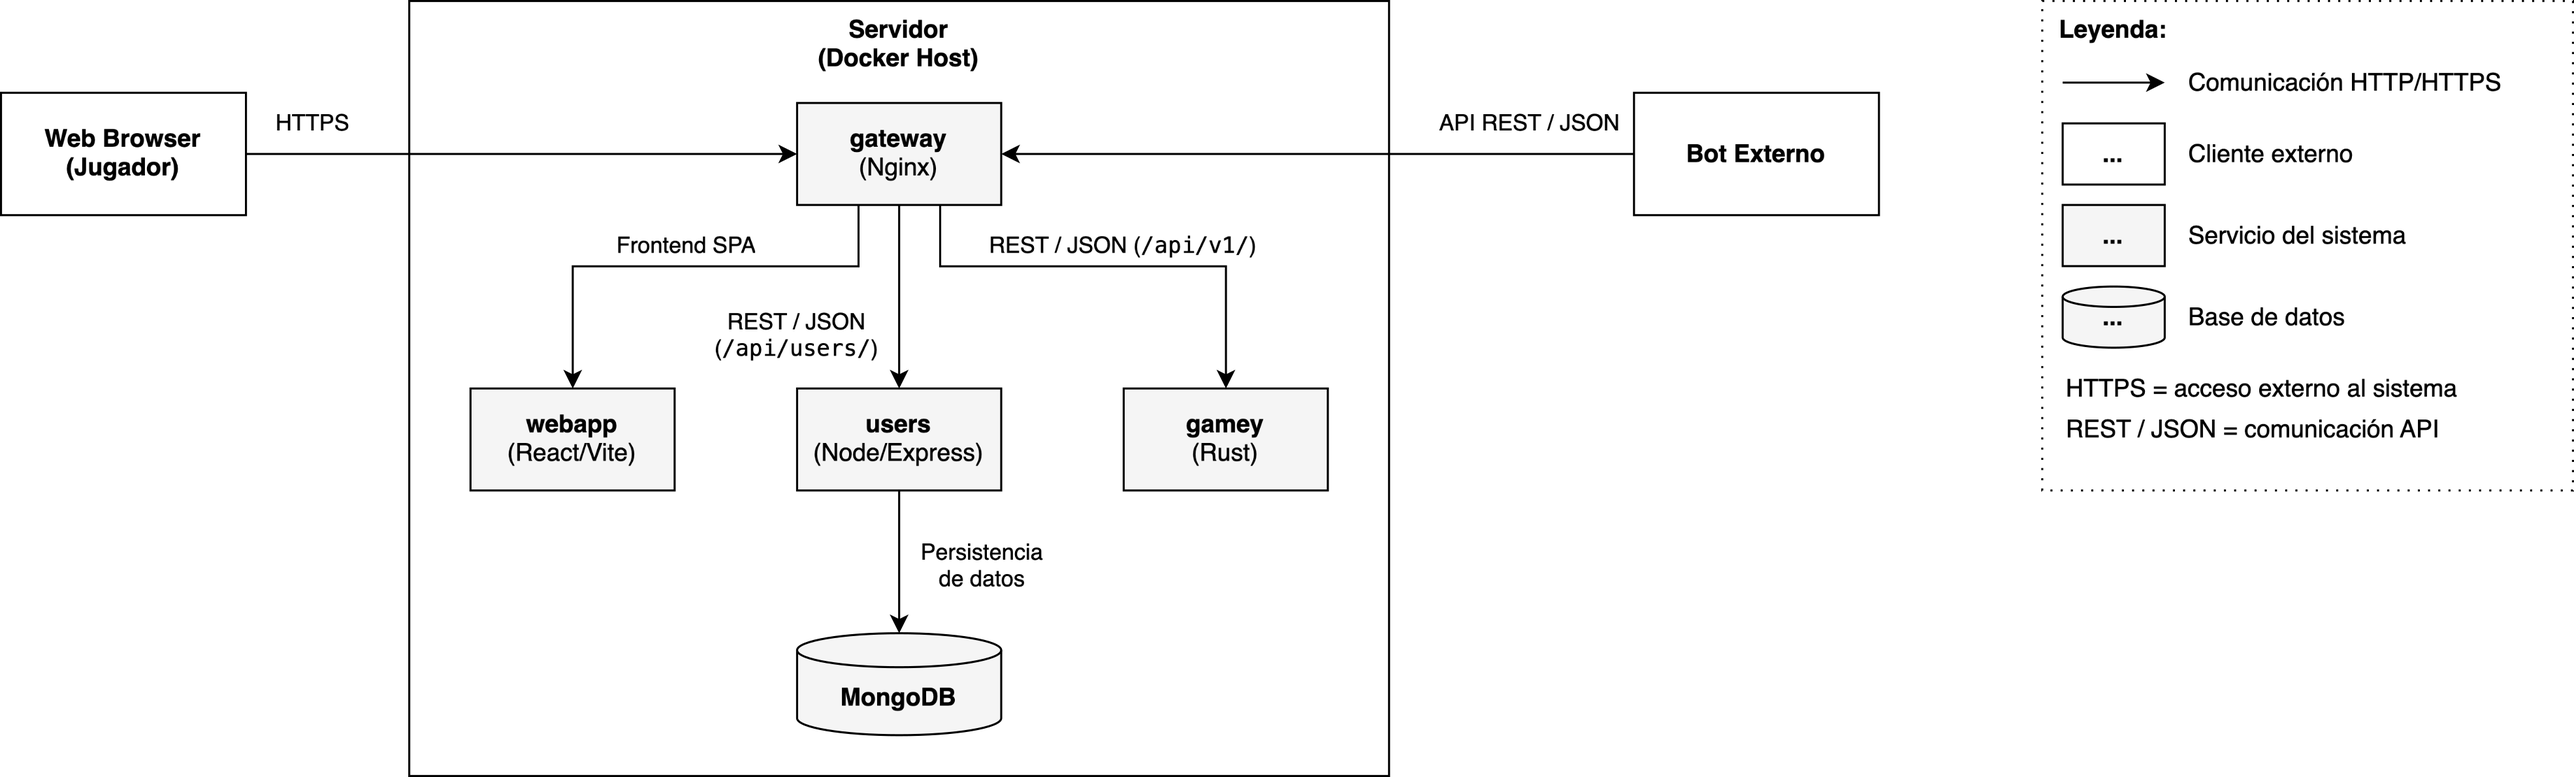
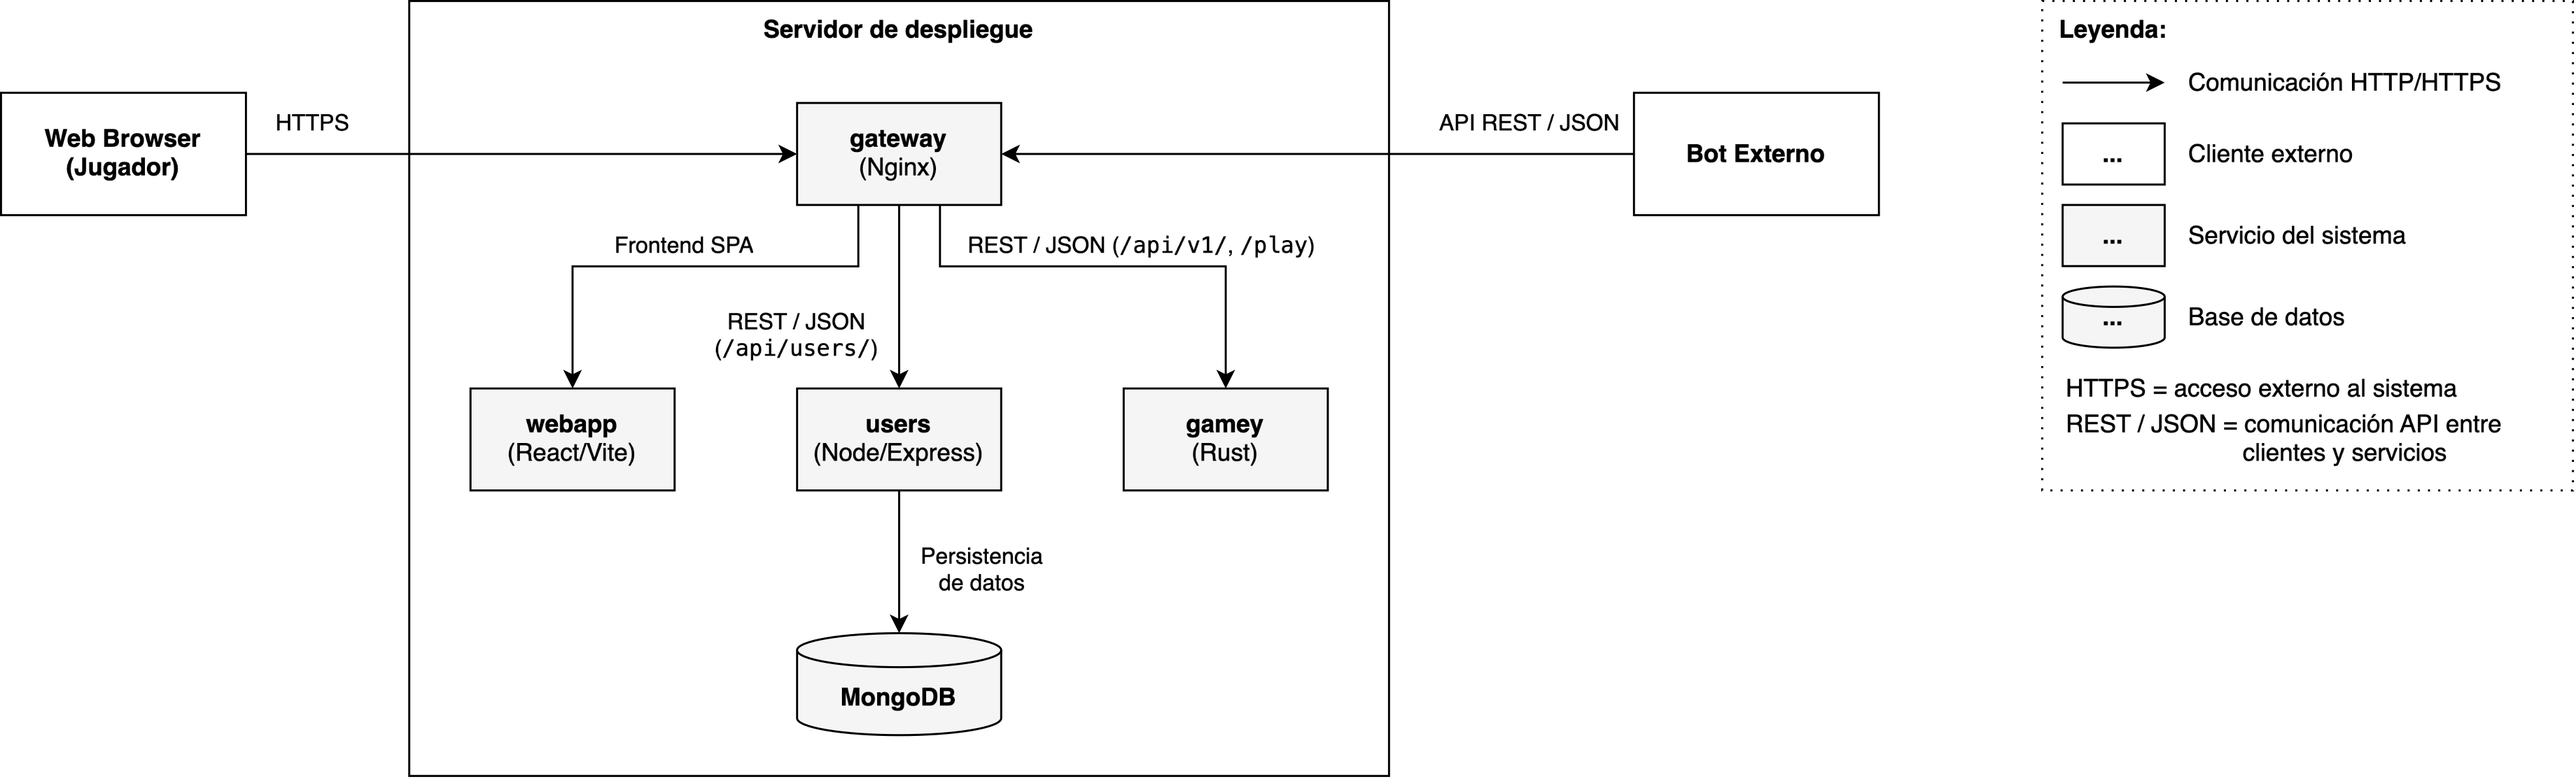
Updates

diff --git a/index.html b/index.html
@@ -588,21 +588,34 @@ For documentation of your own system you use better the <em>plain</em> version.<
 <p>La app dispone de una interfaz web para jugar al juego Y.</p>
 </li>
 <li>
-<p>Se ofrecen dos modos de juego:</p>
+<p>Se ofrecen dos modos base de juego:</p>
 <div class="ulist">
 <ul>
 <li>
-<p>Partida jugador contra jugador.</p>
+<p>Partida jugador contra jugador - HvH.</p>
 </li>
 <li>
-<p>Partida jugador contra bot.</p>
+<p>Partida jugador contra bot - HvB.</p>
 <div class="ulist">
 <ul>
 <li>
-<p>El bot tiene diferentes estrategias implementadas, y el usuario puede elegir cuál de ellas usar (nivel de dificultad).</p>
+<p>En el modo contra bot, el usuario puede seleccionar el nivel de dificultad, asociado a varias estrategias.</p>
 </li>
 </ul>
 </div>
+</li>
+</ul>
+</div>
+</li>
+<li>
+<p>La aplicación incorpora un flujo de selección de variante antes de configurar la partida.</p>
+<div class="ulist">
+<ul>
+<li>
+<p>La variante clásica constituye la base principal del sistema</p>
+</li>
+<li>
+<p>Existen otras variantes adicionales como Tabu Y y Holey Y ya funcionales, y otras todavía no implementadas.</p>
 </li>
 </ul>
 </div>
@@ -611,7 +624,17 @@ For documentation of your own system you use better the <em>plain</em> version.<
 <p>El tablero tiene tamaño variable, configurable por el usuario dentro de unos límites establecidos.</p>
 </li>
 <li>
-<p>El usuario puede elegir quién empieza la partida, según el modo de juego.</p>
+<p>El usuario puede elegir quién empieza la partida:</p>
+<div class="ulist">
+<ul>
+<li>
+<p>En HvB: El usuario, el bot, o aleatorio.</p>
+</li>
+<li>
+<p>En HvH: el Jugador 1, el Jugador 2, o aleatorio.</p>
+</li>
+</ul>
+</div>
 </li>
 <li>
 <p>El usuario podrá registrarse en la aplicación, o inciar sesión si ya tiene cuenta asociada.</p>
@@ -620,24 +643,41 @@ For documentation of your own system you use better the <em>plain</em> version.<
 <li>
 <p>Cada usuario podrá ver un historial de partidas y sus estadísticas (ganadas/perdidas, número de partidas, etc.).</p>
 </li>
-</ul>
-</div>
-</li>
 <li>
-<p>Se proporcionará un API externo (documentado) para que los bots puedan usar el sistema.</p>
+<p>En caso de continuar como usuario invitado (sin iniciar sesión), no se guardará el historial ni las estadísticas de las partidas.</p>
 <div class="ulist">
 <ul>
 <li>
-<p>El API permitirá consultar/gestionar info de usuarios y partidas.</p>
+<p>Al final de cada partida, el usuario invitado podrá optar por registrarse/iniciar sesión para guardar la partida y sus estadísticas, o continuar sin guardar.</p>
 </li>
-<li>
-<p>El API tendrá un método <code>play</code> que recibe al menos <code>position</code> (en notación YEN) y devuelve el siguiente movimiento (también en YEN).</p>
+</ul>
+</div>
 </li>
 </ul>
 </div>
 </li>
 <li>
-<p>El “motor” del juego estará en un módulo/servicio aparte (implementado en Rust), y la web lo llamará por HTTP mediante JSON (usando YEN).</p>
+<p>Se proporciona un API externo (documentado) para que los bots puedan usar el sistema.</p>
+<div class="ulist">
+<ul>
+<li>
+<p>El API permite consultar/gestionar info de usuarios y partidas.</p>
+</li>
+<li>
+<p>El API incluye un método <code>play</code> que recibe al menos una posición (en notación YEN) y devuelve el siguiente movimiento.</p>
+</li>
+</ul>
+</div>
+</li>
+<li>
+<p>El motor del juego está desacoplado de la interfaz web y se implementa como un servicio independiente en Rust.</p>
+<div class="ulist">
+<ul>
+<li>
+<p>La comunicación entre la web y el motor se realiza mediante HTTP y mensajes JSON basados en la notación YEN.</p>
+</li>
+</ul>
+</div>
 </li>
 </ul>
 </div>
@@ -662,57 +702,93 @@ For documentation of your own system you use better the <em>plain</em> version.<
 <tbody>
 <tr>
 <td class="tableblock halign-left valign-top"><p class="tableblock">UC-01</p></td>
-<td class="tableblock halign-left valign-top"><p class="tableblock"><strong>Registrarse / iniciar sesión</strong></p></td>
+<td class="tableblock halign-left valign-top"><p class="tableblock"><strong>Registrarse</strong></p></td>
 <td class="tableblock halign-left valign-top"><p class="tableblock">Usuario</p></td>
-<td class="tableblock halign-left valign-top"><p class="tableblock">El usuario se crea cuenta o entra con su cuenta para poder guardar partidas y ver estadísticas.</p></td>
+<td class="tableblock halign-left valign-top"><p class="tableblock">El usuario crea una cuenta en la aplicación para poder identificarse, verifica su correo y accede a funcionalidades asociadas a su perfil.</p></td>
 </tr>
 <tr>
 <td class="tableblock halign-left valign-top"><p class="tableblock">UC-02</p></td>
-<td class="tableblock halign-left valign-top"><p class="tableblock"><strong>Configurar una partida</strong></p></td>
-<td class="tableblock halign-left valign-top"><p class="tableblock">Usuario</p></td>
-<td class="tableblock halign-left valign-top"><p class="tableblock">El usuario selecciona el modo de juego, el tamaño del tablero, el bot en caso necesario y quién comienza la partida.</p></td>
+<td class="tableblock halign-left valign-top"><p class="tableblock"><strong>Iniciar sesión</strong></p></td>
+<td class="tableblock halign-left valign-top"><p class="tableblock">Usuario registrado</p></td>
+<td class="tableblock halign-left valign-top"><p class="tableblock">El usuario accede con sus credenciales para consultar su historial, estadísticas y ranking, además de guardar partidas en su cuenta.</p></td>
 </tr>
 <tr>
 <td class="tableblock halign-left valign-top"><p class="tableblock">UC-03</p></td>
+<td class="tableblock halign-left valign-top"><p class="tableblock"><strong>Verificar cuenta</strong></p></td>
+<td class="tableblock halign-left valign-top"><p class="tableblock">Usuario registrado</p></td>
+<td class="tableblock halign-left valign-top"><p class="tableblock">El usuario confirma su cuenta mediante el enlace de verificación enviado por correo electrónico.</p></td>
+</tr>
+<tr>
+<td class="tableblock halign-left valign-top"><p class="tableblock">UC-04</p></td>
+<td class="tableblock halign-left valign-top"><p class="tableblock"><strong>Seleccionar variante del juego</strong></p></td>
+<td class="tableblock halign-left valign-top"><p class="tableblock">Usuario</p></td>
+<td class="tableblock halign-left valign-top"><p class="tableblock">El usuario elige la variante con la que desea jugar antes de configurar la partida.</p></td>
+</tr>
+<tr>
+<td class="tableblock halign-left valign-top"><p class="tableblock">UC-05</p></td>
+<td class="tableblock halign-left valign-top"><p class="tableblock"><strong>Configurar una partida</strong></p></td>
+<td class="tableblock halign-left valign-top"><p class="tableblock">Usuario</p></td>
+<td class="tableblock halign-left valign-top"><p class="tableblock">El usuario selecciona el modo de juego, el tamaño del tablero, quién comienza la partida y el nivel de dificultad (si corresponde).</p></td>
+</tr>
+<tr>
+<td class="tableblock halign-left valign-top"><p class="tableblock">UC-06</p></td>
 <td class="tableblock halign-left valign-top"><p class="tableblock"><strong>Crear partida jugador vs jugador</strong></p></td>
 <td class="tableblock halign-left valign-top"><p class="tableblock">Usuario</p></td>
 <td class="tableblock halign-left valign-top"><p class="tableblock">El sistema crea una nueva sesión de juego HvH y devuelve el estado inicial de la partida.</p></td>
 </tr>
 <tr>
-<td class="tableblock halign-left valign-top"><p class="tableblock">UC-04</p></td>
+<td class="tableblock halign-left valign-top"><p class="tableblock">UC-07</p></td>
 <td class="tableblock halign-left valign-top"><p class="tableblock"><strong>Crear partida jugador vs bot</strong></p></td>
 <td class="tableblock halign-left valign-top"><p class="tableblock">Usuario</p></td>
 <td class="tableblock halign-left valign-top"><p class="tableblock">El sistema crea una nueva sesión de juego HvB, aplicando la configuración elegida y, si corresponde, realizando el primer movimiento del bot.</p></td>
 </tr>
 <tr>
-<td class="tableblock halign-left valign-top"><p class="tableblock">UC-05</p></td>
+<td class="tableblock halign-left valign-top"><p class="tableblock">UC-08</p></td>
 <td class="tableblock halign-left valign-top"><p class="tableblock"><strong>Jugar un turno desde la web</strong></p></td>
 <td class="tableblock halign-left valign-top"><p class="tableblock">Usuario</p></td>
-<td class="tableblock halign-left valign-top"><p class="tableblock">El usuario selecciona una celda válida y el sistema actualiza el estado de la partida.</p></td>
+<td class="tableblock halign-left valign-top"><p class="tableblock">El usuario selecciona una celda válida y el sistema actualiza el estado de la partida conforme a las reglas de la variante activa.</p></td>
 </tr>
 <tr>
-<td class="tableblock halign-left valign-top"><p class="tableblock">UC-06</p></td>
+<td class="tableblock halign-left valign-top"><p class="tableblock">UC-09</p></td>
 <td class="tableblock halign-left valign-top"><p class="tableblock"><strong>Obtener la respuesta del bot</strong></p></td>
 <td class="tableblock halign-left valign-top"><p class="tableblock">Sistema</p></td>
 <td class="tableblock halign-left valign-top"><p class="tableblock">Tras la jugada del usuario en una partida HvB, el servicio de juego calcula y aplica automáticamente el movimiento del bot.</p></td>
 </tr>
 <tr>
-<td class="tableblock halign-left valign-top"><p class="tableblock">UC-07</p></td>
+<td class="tableblock halign-left valign-top"><p class="tableblock">UC-10</p></td>
 <td class="tableblock halign-left valign-top"><p class="tableblock"><strong>Comprobar si la partida ha finalizado</strong></p></td>
 <td class="tableblock halign-left valign-top"><p class="tableblock">Sistema</p></td>
 <td class="tableblock halign-left valign-top"><p class="tableblock">Después de cada movimiento, el servicio determina si existe un ganador o si la partida continúa.</p></td>
 </tr>
 <tr>
-<td class="tableblock halign-left valign-top"><p class="tableblock">UC-08</p></td>
+<td class="tableblock halign-left valign-top"><p class="tableblock">UC-11</p></td>
+<td class="tableblock halign-left valign-top"><p class="tableblock"><strong>Abandonar una partida</strong></p></td>
+<td class="tableblock halign-left valign-top"><p class="tableblock">Usuario</p></td>
+<td class="tableblock halign-left valign-top"><p class="tableblock">El usuario decide salir de una partida en curso y el sistema cierra la sesión de juego activa, guardando el estado como "Abandonada" (si corresponde).</p></td>
+</tr>
+<tr>
+<td class="tableblock halign-left valign-top"><p class="tableblock">UC-12</p></td>
+<td class="tableblock halign-left valign-top"><p class="tableblock"><strong>Guardar una partida en el historial</strong></p></td>
+<td class="tableblock halign-left valign-top"><p class="tableblock">Usuario registrado</p></td>
+<td class="tableblock halign-left valign-top"><p class="tableblock">Al finalizar una partida, el sistema permite registrar el resultado en la cuenta del usuario para actualizar su historial y estadísticas.</p></td>
+</tr>
+<tr>
+<td class="tableblock halign-left valign-top"><p class="tableblock">UC-13</p></td>
 <td class="tableblock halign-left valign-top"><p class="tableblock"><strong>Ver historial y estadísticas</strong></p></td>
 <td class="tableblock halign-left valign-top"><p class="tableblock">Usuario registrado</p></td>
 <td class="tableblock halign-left valign-top"><p class="tableblock">El usuario ve el historial partidas anteriores y sus estadisticas guardadas en su cuenta.</p></td>
 </tr>
 <tr>
-<td class="tableblock halign-left valign-top"><p class="tableblock">UC-09</p></td>
+<td class="tableblock halign-left valign-top"><p class="tableblock">UC-14</p></td>
 <td class="tableblock halign-left valign-top"><p class="tableblock"><strong>Consultar el estado de una partida</strong></p></td>
-<td class="tableblock halign-left valign-top"><p class="tableblock">Usuario</p></td>
+<td class="tableblock halign-left valign-top"><p class="tableblock">Usuario registrado</p></td>
 <td class="tableblock halign-left valign-top"><p class="tableblock">La interfaz puede recuperar el estado actual de una sesión de juego mediante su identificador.</p></td>
+</tr>
+<tr>
+<td class="tableblock halign-left valign-top"><p class="tableblock">UC-15</p></td>
+<td class="tableblock halign-left valign-top"><p class="tableblock"><strong>Consultar ranking global</strong></p></td>
+<td class="tableblock halign-left valign-top"><p class="tableblock">Usuario</p></td>
+<td class="tableblock halign-left valign-top"><p class="tableblock">El usuario puede consultar la clasificación global de jugadores en función de sus resultados.</p></td>
 </tr>
 </tbody>
 </table>
@@ -946,7 +1022,7 @@ For documentation of your own system you use better the <em>plain</em> version.<
 <p><strong>webapp (React/Vite)</strong>: Aplicación frontend tipo SPA que implementa la interfaz de usuario.</p>
 </li>
 <li>
-<p><strong>users (Node/Express)</strong>: Servicio backend encargado de la gestión de usuarios.</p>
+<p><strong>users (Node/Express)</strong>: Servicio backend encargado de la gestión de usuarios (autenticación, verificación, historial, estadísticas, ranking, &#8230;&#8203;).</p>
 </li>
 <li>
 <p><strong>gamey (Rust)</strong>: Servicio backend que encapsula la lógica del juego y expone la API de partidas y movimientos.</p>
